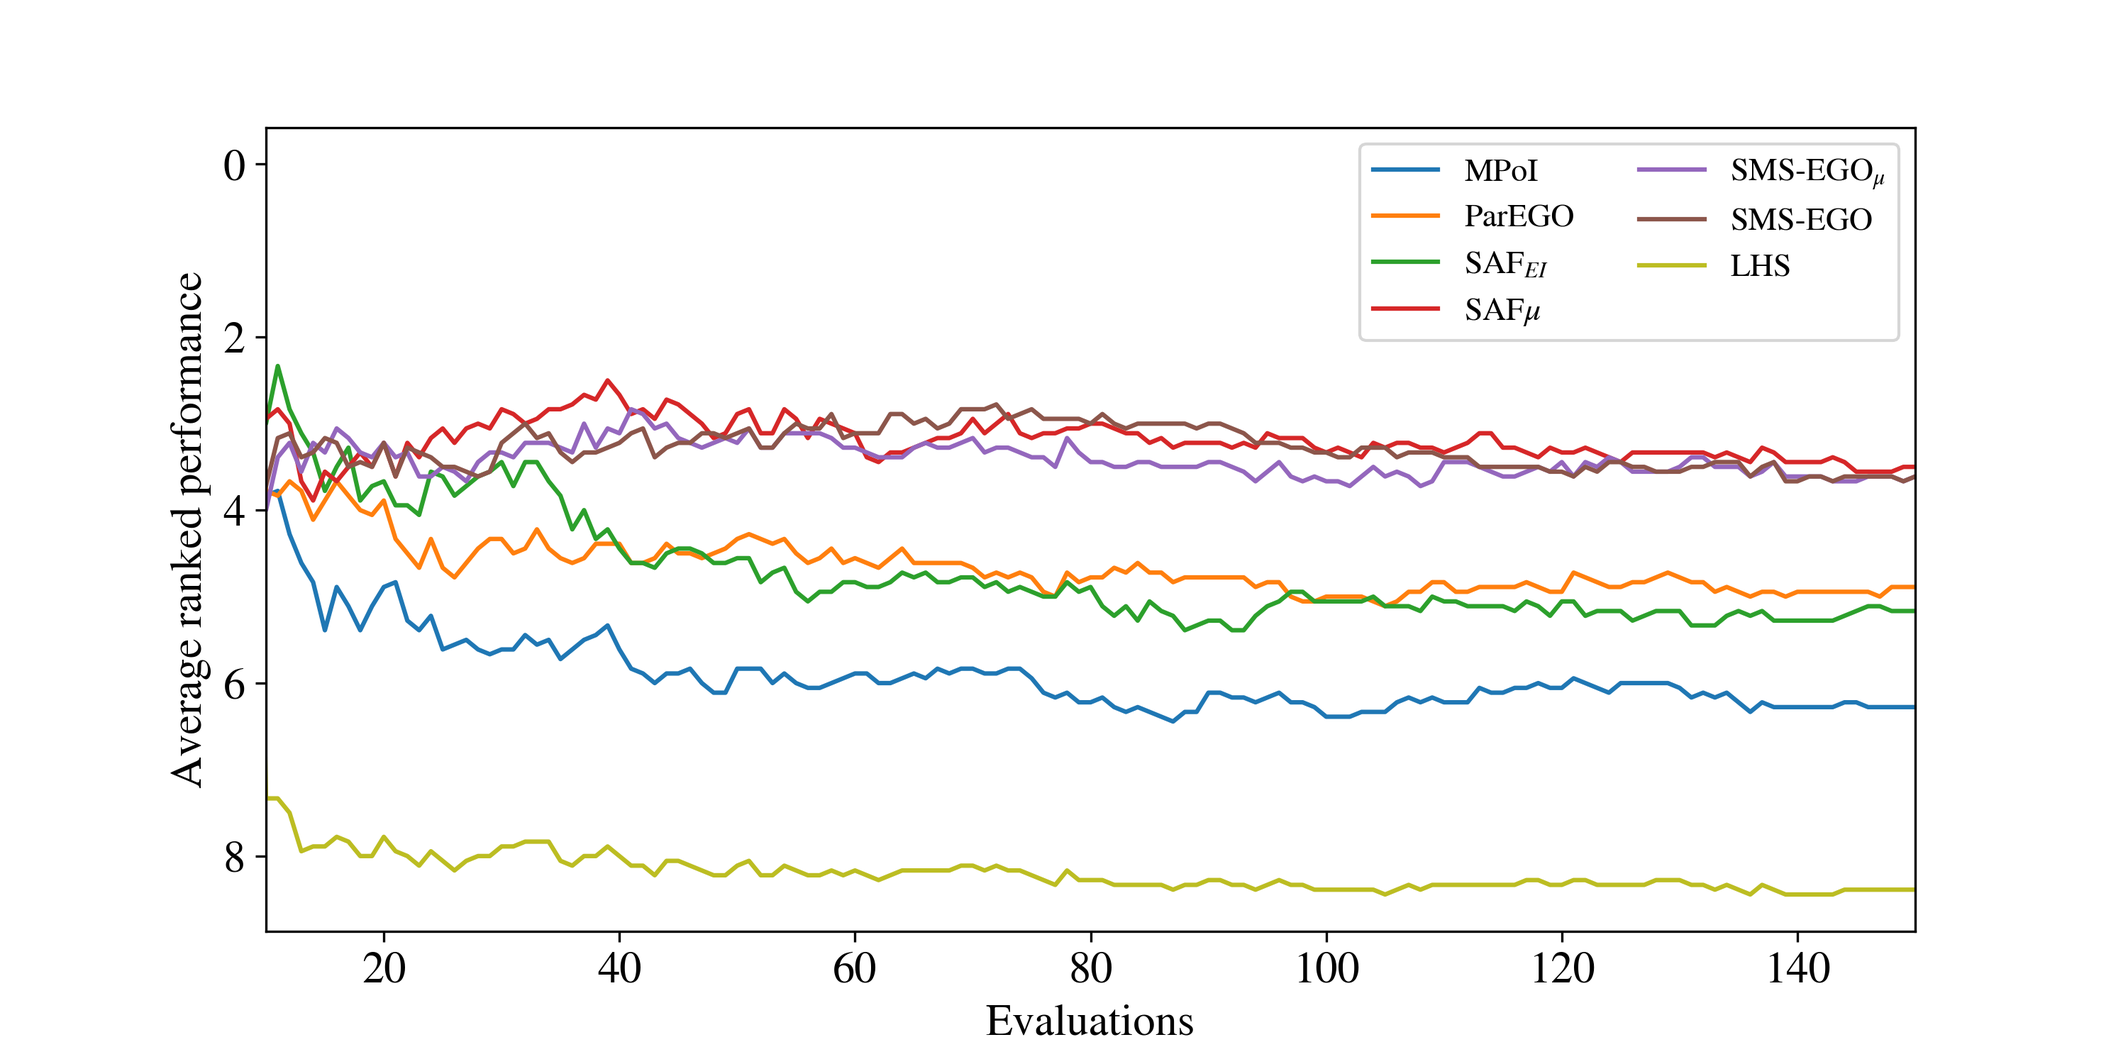
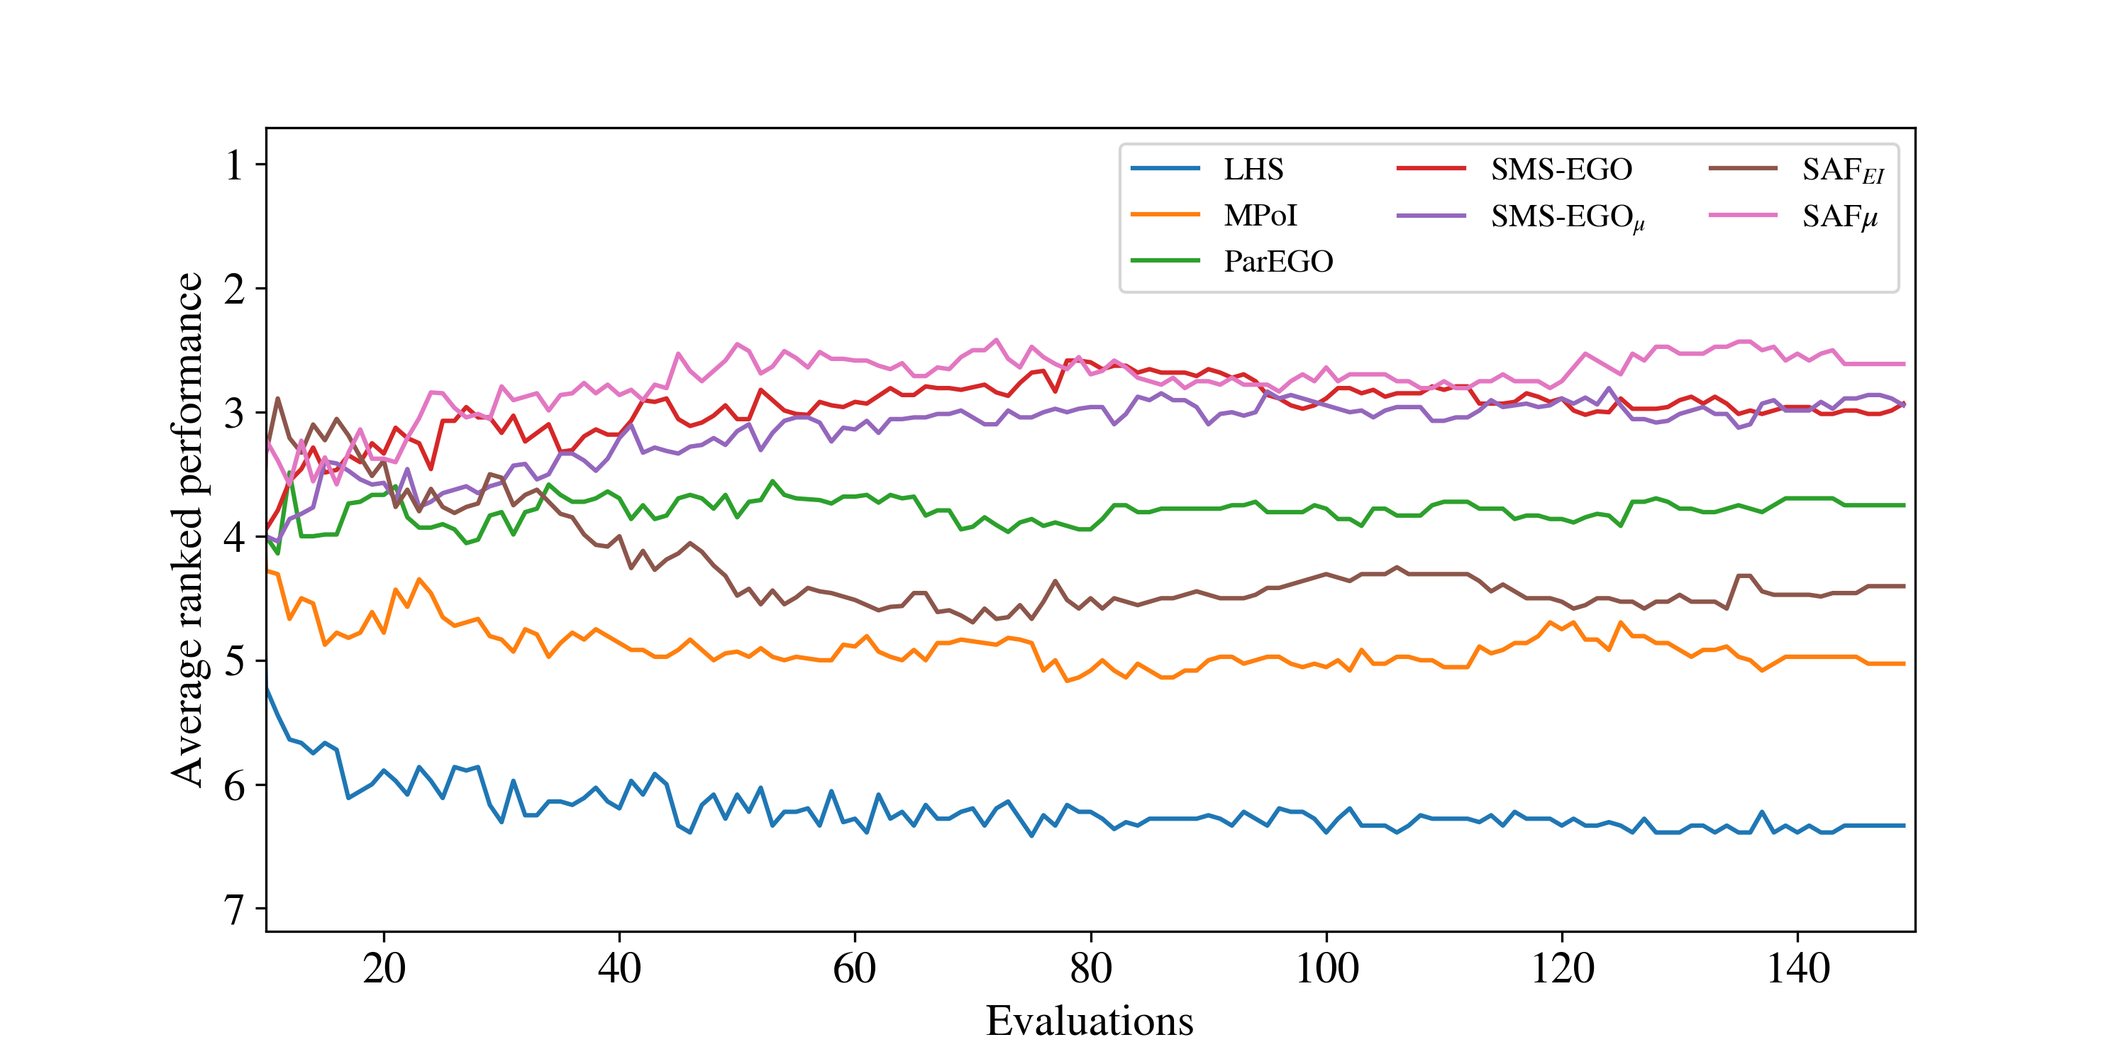
fixed wilcoxon in taboles and rank plots

diff --git a/tables/hv_table_1.tex b/tables/hv_table_1.tex
@@ -1,15 +1,15 @@
 \begin{tabular}{lllllllllllll}
 \toprule
-{} & \multicolumn{2}{l}{WFG1 2$\nobj$ 3$\ndim$} & \multicolumn{2}{l}{WFG1 3$\nobj$ 4$\ndim$} & \multicolumn{2}{l}{WFG1 4$\nobj$ 5$\ndim$} & \multicolumn{2}{l}{WFG2 2$\nobj$ 6$\ndim$} & \multicolumn{2}{l}{WFG2 3$\nobj$ 6$\ndim$} & \multicolumn{2}{l}{WFG2 4$\nobj$ 10$\ndim$} \\
-{} &                 Median &                                      IQR &                 Median &                                      IQR &                 Median &                                      IQR &                 Median &                               IQR &                 Median &                               IQR &                  Median &                                       IQR \\
+{} & \multicolumn{2}{l}{WFG5 2\nobj 6\ndim} & \multicolumn{2}{l}{WFG5 3\nobj 8\ndim} & \multicolumn{2}{l}{WFG5 4\nobj 10\ndim} & \multicolumn{2}{l}{WFG6 2\nobj 10\ndim} & \multicolumn{2}{l}{WFG6 3\nobj 6\ndim} & \multicolumn{2}{l}{WFG6 4\nobj 12\ndim} \\
+{} &              Median &                                      IQR &               Median &                                      IQR &              Median &                               IQR &              Median &                               IQR &             Median &                               IQR &                Median &                                       IQR \\
 \midrule
-MPoI          &                  1.621 &               \scriptsize \textit{0.459} &                  6.242 &               \scriptsize \textit{1.507} &                 21.803 &               \scriptsize \textit{6.015} &                  7.551 &        \scriptsize \textit{1.386} &           \best 74.854 &  \best \scriptsize \textit{7.323} &    \statsimilar 560.122 &  \statsimilar \scriptsize \textit{52.447} \\
-ParEGO        &            \best 2.018 &         \best \scriptsize \textit{0.269} &     \statsimilar 8.126 &  \statsimilar \scriptsize \textit{1.544} &      \statsimilar 29.0 &  \statsimilar \scriptsize \textit{3.865} &            \best 8.546 &  \best \scriptsize \textit{0.439} &                  74.33 &        \scriptsize \textit{4.332} &           \best 581.771 &         \best \scriptsize \textit{47.669} \\
-SAF$_{EI}$    &     \statsimilar 1.428 &  \statsimilar \scriptsize \textit{0.172} &                  5.785 &               \scriptsize \textit{1.007} &                 23.685 &               \scriptsize \textit{2.684} &                  7.742 &        \scriptsize \textit{0.553} &                 70.924 &        \scriptsize \textit{4.325} &                 543.311 &               \scriptsize \textit{50.594} \\
-SAF${\mu}$    &                  1.976 &               \scriptsize \textit{0.234} &     \statsimilar 7.972 &  \statsimilar \scriptsize \textit{1.855} &           \best 30.651 &         \best \scriptsize \textit{6.829} &                  7.979 &        \scriptsize \textit{0.425} &                 72.149 &        \scriptsize \textit{6.855} &                 527.018 &               \scriptsize \textit{81.294} \\
-SMS-EGO$_\mu$ &                  1.814 &               \scriptsize \textit{0.236} &     \statsimilar 8.135 &  \statsimilar \scriptsize \textit{1.023} &     \statsimilar 30.33 &  \statsimilar \scriptsize \textit{9.137} &                  7.826 &        \scriptsize \textit{0.673} &                 68.103 &        \scriptsize \textit{8.318} &                 528.554 &               \scriptsize \textit{51.675} \\
-SMS-EGO       &                  1.827 &               \scriptsize \textit{0.161} &            \best 8.225 &          \best \scriptsize \textit{1.31} &                 29.756 &               \scriptsize \textit{8.576} &                  7.708 &        \scriptsize \textit{0.914} &                 68.408 &        \scriptsize \textit{5.308} &                 524.557 &               \scriptsize \textit{28.847} \\
-LHS           &                  0.819 &               \scriptsize \textit{0.138} &                  2.925 &               \scriptsize \textit{0.397} &                 11.582 &               \scriptsize \textit{1.726} &                  7.993 &        \scriptsize \textit{0.395} &                 66.546 &        \scriptsize \textit{4.424} &                 507.974 &               \scriptsize \textit{36.638} \\
+LHS           &               4.786 &               \scriptsize \textit{0.185} &               30.184 &               \scriptsize \textit{1.707} &             213.407 &       \scriptsize \textit{12.576} &               4.484 &        \scriptsize \textit{0.325} &             44.527 &        \scriptsize \textit{2.601} &               288.389 &               \scriptsize \textit{12.287} \\
+MPoI          &               5.824 &               \scriptsize \textit{0.511} &               39.407 &               \scriptsize \textit{6.208} &             262.216 &       \scriptsize \textit{59.318} &               6.266 &        \scriptsize \textit{0.466} &             60.758 &        \scriptsize \textit{5.591} &                 391.3 &               \scriptsize \textit{69.111} \\
+ParEGO        &         \best 6.563 &         \best \scriptsize \textit{0.331} &  \statsimilar 40.123 &  \statsimilar \scriptsize \textit{5.458} &             279.477 &       \scriptsize \textit{46.219} &               7.026 &        \scriptsize \textit{0.365} &              54.55 &        \scriptsize \textit{2.777} &               411.117 &                \scriptsize \textit{60.56} \\
+SMS-EGO       &  \statsimilar 6.475 &  \statsimilar \scriptsize \textit{0.603} &         \best 43.535 &         \best \scriptsize \textit{5.478} &             281.513 &       \scriptsize \textit{50.994} &               6.942 &        \scriptsize \textit{0.713} &             64.476 &        \scriptsize \textit{5.146} &  \statsimilar 488.723 &  \statsimilar \scriptsize \textit{31.602} \\
+SMS-EGO$_\mu$ &               6.007 &               \scriptsize \textit{0.541} &  \statsimilar 42.774 &  \statsimilar \scriptsize \textit{3.529} &             281.026 &       \scriptsize \textit{56.115} &                6.78 &        \scriptsize \textit{0.846} &             63.657 &        \scriptsize \textit{7.061} &          \best 492.46 &         \best \scriptsize \textit{31.028} \\
+SAF$_{EI}$    &               5.296 &               \scriptsize \textit{0.365} &               36.186 &               \scriptsize \textit{4.376} &             260.963 &       \scriptsize \textit{33.522} &               7.233 &        \scriptsize \textit{0.287} &             63.811 &        \scriptsize \textit{4.356} &                432.85 &                 \scriptsize \textit{18.4} \\
+SAF${\mu}$    &               6.158 &               \scriptsize \textit{0.388} &  \statsimilar 42.468 &  \statsimilar \scriptsize \textit{3.641} &       \best 324.399 &  \best \scriptsize \textit{37.05} &         \best 7.631 &  \best \scriptsize \textit{0.426} &       \best 69.028 &  \best \scriptsize \textit{1.786} &               445.447 &               \scriptsize \textit{31.935} \\
 \bottomrule
 \end{tabular}
 

diff --git a/tables/igd_table_1.tex b/tables/igd_table_1.tex
@@ -1,15 +1,15 @@
 \begin{tabular}{lllllllllllll}
 \toprule
-{} & \multicolumn{2}{l}{WFG1 2$\nobj$ 3$\ndim$} & \multicolumn{2}{l}{WFG1 3$\nobj$ 4$\ndim$} & \multicolumn{2}{l}{WFG1 4$\nobj$ 5$\ndim$} & \multicolumn{2}{l}{WFG2 2$\nobj$ 6$\ndim$} & \multicolumn{2}{l}{WFG2 3$\nobj$ 6$\ndim$} & \multicolumn{2}{l}{WFG2 4$\nobj$ 10$\ndim$} \\
-{} &                 Median &                                      IQR &                 Median &                                      IQR &                 Median &                                      IQR &                 Median &                               IQR &                 Median &                               IQR &                  Median &                                      IQR \\
+{} & \multicolumn{2}{l}{WFG5 2\nobj 6\ndim} & \multicolumn{2}{l}{WFG5 3\nobj 8\ndim} & \multicolumn{2}{l}{WFG5 4\nobj 10\ndim} & \multicolumn{2}{l}{WFG6 2\nobj 10\ndim} & \multicolumn{2}{l}{WFG6 3\nobj 6\ndim} & \multicolumn{2}{l}{WFG6 4\nobj 12\ndim} \\
+{} &              Median &                                      IQR &              Median &                                      IQR &              Median &                               IQR &              Median &                               IQR &             Median &                               IQR &              Median &                                      IQR \\
 \midrule
-MPoI          &                  1.063 &               \scriptsize \textit{0.269} &                  1.483 &               \scriptsize \textit{0.231} &                  1.883 &               \scriptsize \textit{0.187} &                  0.561 &         \scriptsize \textit{0.22} &            \best 0.653 &  \best \scriptsize \textit{0.161} &                   0.652 &               \scriptsize \textit{0.178} \\
-ParEGO        &            \best 0.969 &         \best \scriptsize \textit{0.036} &     \statsimilar 1.318 &  \statsimilar \scriptsize \textit{0.113} &     \statsimilar 1.655 &  \statsimilar \scriptsize \textit{0.149} &            \best 0.433 &  \best \scriptsize \textit{0.083} &                  0.746 &        \scriptsize \textit{0.201} &       \statsimilar 0.55 &  \statsimilar \scriptsize \textit{0.159} \\
-SAF$_{EI}$    &                  1.324 &               \scriptsize \textit{0.067} &                  1.636 &                 \scriptsize \textit{0.1} &                  1.814 &               \scriptsize \textit{0.128} &                  0.553 &        \scriptsize \textit{0.094} &                  0.891 &        \scriptsize \textit{0.212} &                   0.646 &               \scriptsize \textit{0.208} \\
-SAF${\mu}$    &     \statsimilar 1.014 &  \statsimilar \scriptsize \textit{0.035} &     \statsimilar 1.343 &  \statsimilar \scriptsize \textit{0.184} &     \statsimilar 1.621 &  \statsimilar \scriptsize \textit{0.187} &                   0.53 &        \scriptsize \textit{0.101} &                  0.818 &        \scriptsize \textit{0.258} &                   0.639 &               \scriptsize \textit{0.224} \\
-SMS-EGO$_\mu$ &                  0.992 &               \scriptsize \textit{0.035} &            \best 1.297 &         \best \scriptsize \textit{0.093} &            \best 1.614 &         \best \scriptsize \textit{0.286} &                  0.538 &        \scriptsize \textit{0.129} &                  0.889 &        \scriptsize \textit{0.217} &              \best 0.54 &         \best \scriptsize \textit{0.082} \\
-SMS-EGO       &                  0.993 &               \scriptsize \textit{0.035} &                  1.314 &               \scriptsize \textit{0.113} &                  1.634 &               \scriptsize \textit{0.248} &                   0.57 &         \scriptsize \textit{0.15} &                  0.878 &        \scriptsize \textit{0.192} &                   0.567 &                \scriptsize \textit{0.09} \\
-LHS           &                  1.565 &               \scriptsize \textit{0.055} &                  2.001 &               \scriptsize \textit{0.048} &                  2.289 &               \scriptsize \textit{0.066} &                  0.493 &        \scriptsize \textit{0.076} &                  0.838 &        \scriptsize \textit{0.186} &                   0.633 &               \scriptsize \textit{0.075} \\
+LHS           &               0.436 &               \scriptsize \textit{0.043} &               0.768 &               \scriptsize \textit{0.064} &               1.262 &        \scriptsize \textit{0.144} &               0.622 &         \scriptsize \textit{0.08} &               0.69 &        \scriptsize \textit{0.052} &               1.357 &               \scriptsize \textit{0.075} \\
+MPoI          &               0.229 &               \scriptsize \textit{0.099} &               0.584 &               \scriptsize \textit{0.204} &               1.182 &        \scriptsize \textit{0.369} &               0.365 &        \scriptsize \textit{0.094} &              0.355 &        \scriptsize \textit{0.122} &               0.897 &               \scriptsize \textit{0.204} \\
+ParEGO        &  \statsimilar 0.141 &  \statsimilar \scriptsize \textit{0.044} &               0.539 &               \scriptsize \textit{0.128} &                1.09 &        \scriptsize \textit{0.295} &               0.252 &        \scriptsize \textit{0.066} &              0.558 &        \scriptsize \textit{0.078} &               1.034 &               \scriptsize \textit{0.214} \\
+SMS-EGO       &         \best 0.131 &         \best \scriptsize \textit{0.073} &         \best 0.434 &          \best \scriptsize \textit{0.15} &                 1.2 &        \scriptsize \textit{0.446} &               0.232 &        \scriptsize \textit{0.129} &              0.351 &         \scriptsize \textit{0.13} &  \statsimilar 0.781 &  \statsimilar \scriptsize \textit{0.095} \\
+SMS-EGO$_\mu$ &                0.19 &               \scriptsize \textit{0.092} &  \statsimilar 0.443 &  \statsimilar \scriptsize \textit{0.115} &               1.132 &        \scriptsize \textit{0.452} &               0.238 &        \scriptsize \textit{0.131} &              0.364 &        \scriptsize \textit{0.172} &         \best 0.774 &         \best \scriptsize \textit{0.091} \\
+SAF$_{EI}$    &               0.325 &               \scriptsize \textit{0.069} &                0.69 &               \scriptsize \textit{0.212} &               1.252 &        \scriptsize \textit{0.341} &               0.202 &        \scriptsize \textit{0.064} &              0.319 &        \scriptsize \textit{0.091} &               0.929 &                \scriptsize \textit{0.06} \\
+SAF${\mu}$    &               0.178 &               \scriptsize \textit{0.064} &  \statsimilar 0.458 &  \statsimilar \scriptsize \textit{0.122} &         \best 0.875 &  \best \scriptsize \textit{0.189} &         \best 0.123 &  \best \scriptsize \textit{0.063} &        \best 0.205 &  \best \scriptsize \textit{0.043} &  \statsimilar 0.809 &   \statsimilar \scriptsize \textit{0.09} \\
 \bottomrule
 \end{tabular}
 

diff --git a/tables/hv_table_3.tex b/tables/hv_table_3.tex
@@ -1,15 +1,15 @@
 \begin{tabular}{lllllllllllll}
 \toprule
 {} & \multicolumn{2}{l}{WFG5 2$\nobj$ 6$\ndim$} & \multicolumn{2}{l}{WFG5 3$\nobj$ 8$\ndim$} & \multicolumn{2}{l}{WFG5 4$\nobj$ 10$\ndim$} & \multicolumn{2}{l}{WFG6 2$\nobj$ 10$\ndim$} & \multicolumn{2}{l}{WFG6 3$\nobj$ 6$\ndim$} & \multicolumn{2}{l}{WFG6 4$\nobj$ 12$\ndim$} \\
-{} &                 Median &                                      IQR &                 Median &                                      IQR &                  Median &                                IQR &                  Median &                               IQR &                 Median &                               IQR &                  Median &                                IQR \\
+{} &                 Median &                                      IQR &                 Median &                                    IQR &                  Median &                                IQR &                  Median &                               IQR &                 Median &                               IQR &                  Median &                                IQR \\
 \midrule
-MPoI          &                  5.824 &               \scriptsize \textit{0.511} &                 39.407 &               \scriptsize \textit{6.264} &                 262.216 &        \scriptsize \textit{58.982} &                   6.266 &        \scriptsize \textit{0.468} &                 61.134 &        \scriptsize \textit{5.597} &                 392.953 &        \scriptsize \textit{68.695} \\
-ParEGO        &            \best 6.563 &         \best \scriptsize \textit{0.331} &                 40.123 &                \scriptsize \textit{5.34} &                  279.99 &        \scriptsize \textit{47.968} &                   7.026 &        \scriptsize \textit{0.382} &                 54.838 &        \scriptsize \textit{2.688} &                 411.117 &        \scriptsize \textit{60.737} \\
-SAF$_{EI}$    &                  5.296 &               \scriptsize \textit{0.365} &                 36.186 &               \scriptsize \textit{4.429} &                 261.256 &         \scriptsize \textit{33.69} &                   7.242 &        \scriptsize \textit{0.294} &                 63.811 &        \scriptsize \textit{4.398} &                 432.901 &        \scriptsize \textit{18.499} \\
-SAF${\mu}$    &                  6.158 &               \scriptsize \textit{0.388} &    \statsimilar 42.468 &  \statsimilar \scriptsize \textit{3.608} &           \best 324.422 &  \best \scriptsize \textit{35.089} &             \best 7.636 &  \best \scriptsize \textit{0.404} &           \best 69.028 &  \best \scriptsize \textit{1.866} &                 445.447 &        \scriptsize \textit{33.157} \\
-SMS-EGO$_\mu$ &     \statsimilar 6.007 &  \statsimilar \scriptsize \textit{0.554} &    \statsimilar 42.788 &    \statsimilar \scriptsize \textit{3.6} &                 281.026 &        \scriptsize \textit{56.622} &                    6.78 &        \scriptsize \textit{0.846} &                 63.657 &        \scriptsize \textit{7.053} &           \best 492.477 &  \best \scriptsize \textit{31.253} \\
-SMS-EGO       &                  6.476 &               \scriptsize \textit{0.603} &           \best 43.535 &         \best \scriptsize \textit{5.494} &                 281.539 &        \scriptsize \textit{50.995} &                   6.942 &        \scriptsize \textit{0.718} &                 64.476 &        \scriptsize \textit{5.202} &                 491.839 &        \scriptsize \textit{31.033} \\
-LHS           &                  4.827 &               \scriptsize \textit{0.231} &                 30.024 &               \scriptsize \textit{1.435} &                 212.412 &         \scriptsize \textit{10.44} &                   4.461 &        \scriptsize \textit{0.223} &                 44.089 &        \scriptsize \textit{2.789} &                 294.355 &         \scriptsize \textit{9.116} \\
+MPoI          &                  5.824 &               \scriptsize \textit{0.511} &                 39.407 &             \scriptsize \textit{6.264} &                 262.216 &        \scriptsize \textit{58.982} &                   6.266 &        \scriptsize \textit{0.468} &                 61.134 &        \scriptsize \textit{5.597} &                 392.953 &        \scriptsize \textit{68.695} \\
+ParEGO        &            \best 6.563 &         \best \scriptsize \textit{0.331} &                 40.123 &              \scriptsize \textit{5.34} &                  279.99 &        \scriptsize \textit{47.968} &                   7.026 &        \scriptsize \textit{0.382} &                 54.838 &        \scriptsize \textit{2.688} &                 411.117 &        \scriptsize \textit{60.737} \\
+SAF$_{EI}$    &                  5.296 &               \scriptsize \textit{0.365} &                 36.186 &             \scriptsize \textit{4.429} &                 261.256 &         \scriptsize \textit{33.69} &                   7.242 &        \scriptsize \textit{0.294} &                 63.811 &        \scriptsize \textit{4.398} &                 432.901 &        \scriptsize \textit{18.499} \\
+SAF${\mu}$    &                  6.158 &               \scriptsize \textit{0.388} &                 42.468 &             \scriptsize \textit{3.608} &           \best 324.422 &  \best \scriptsize \textit{35.089} &             \best 7.636 &  \best \scriptsize \textit{0.404} &           \best 69.028 &  \best \scriptsize \textit{1.866} &                 445.447 &        \scriptsize \textit{33.157} \\
+SMS-EGO$_\mu$ &     \statsimilar 6.007 &  \statsimilar \scriptsize \textit{0.554} &    \statsimilar 42.788 &  \statsimilar \scriptsize \textit{3.6} &                 281.026 &        \scriptsize \textit{56.622} &                    6.78 &        \scriptsize \textit{0.846} &                 63.657 &        \scriptsize \textit{7.053} &           \best 492.477 &  \best \scriptsize \textit{31.253} \\
+SMS-EGO       &                  6.476 &               \scriptsize \textit{0.603} &           \best 43.535 &       \best \scriptsize \textit{5.494} &                 281.539 &        \scriptsize \textit{50.995} &                   6.942 &        \scriptsize \textit{0.718} &                 64.476 &        \scriptsize \textit{5.202} &                 491.839 &        \scriptsize \textit{31.033} \\
+LHS           &                  4.827 &               \scriptsize \textit{0.231} &                 30.024 &             \scriptsize \textit{1.435} &                 212.412 &         \scriptsize \textit{10.44} &                   4.461 &        \scriptsize \textit{0.223} &                 44.089 &        \scriptsize \textit{2.789} &                 294.355 &         \scriptsize \textit{9.116} \\
 \bottomrule
 \end{tabular}
 
